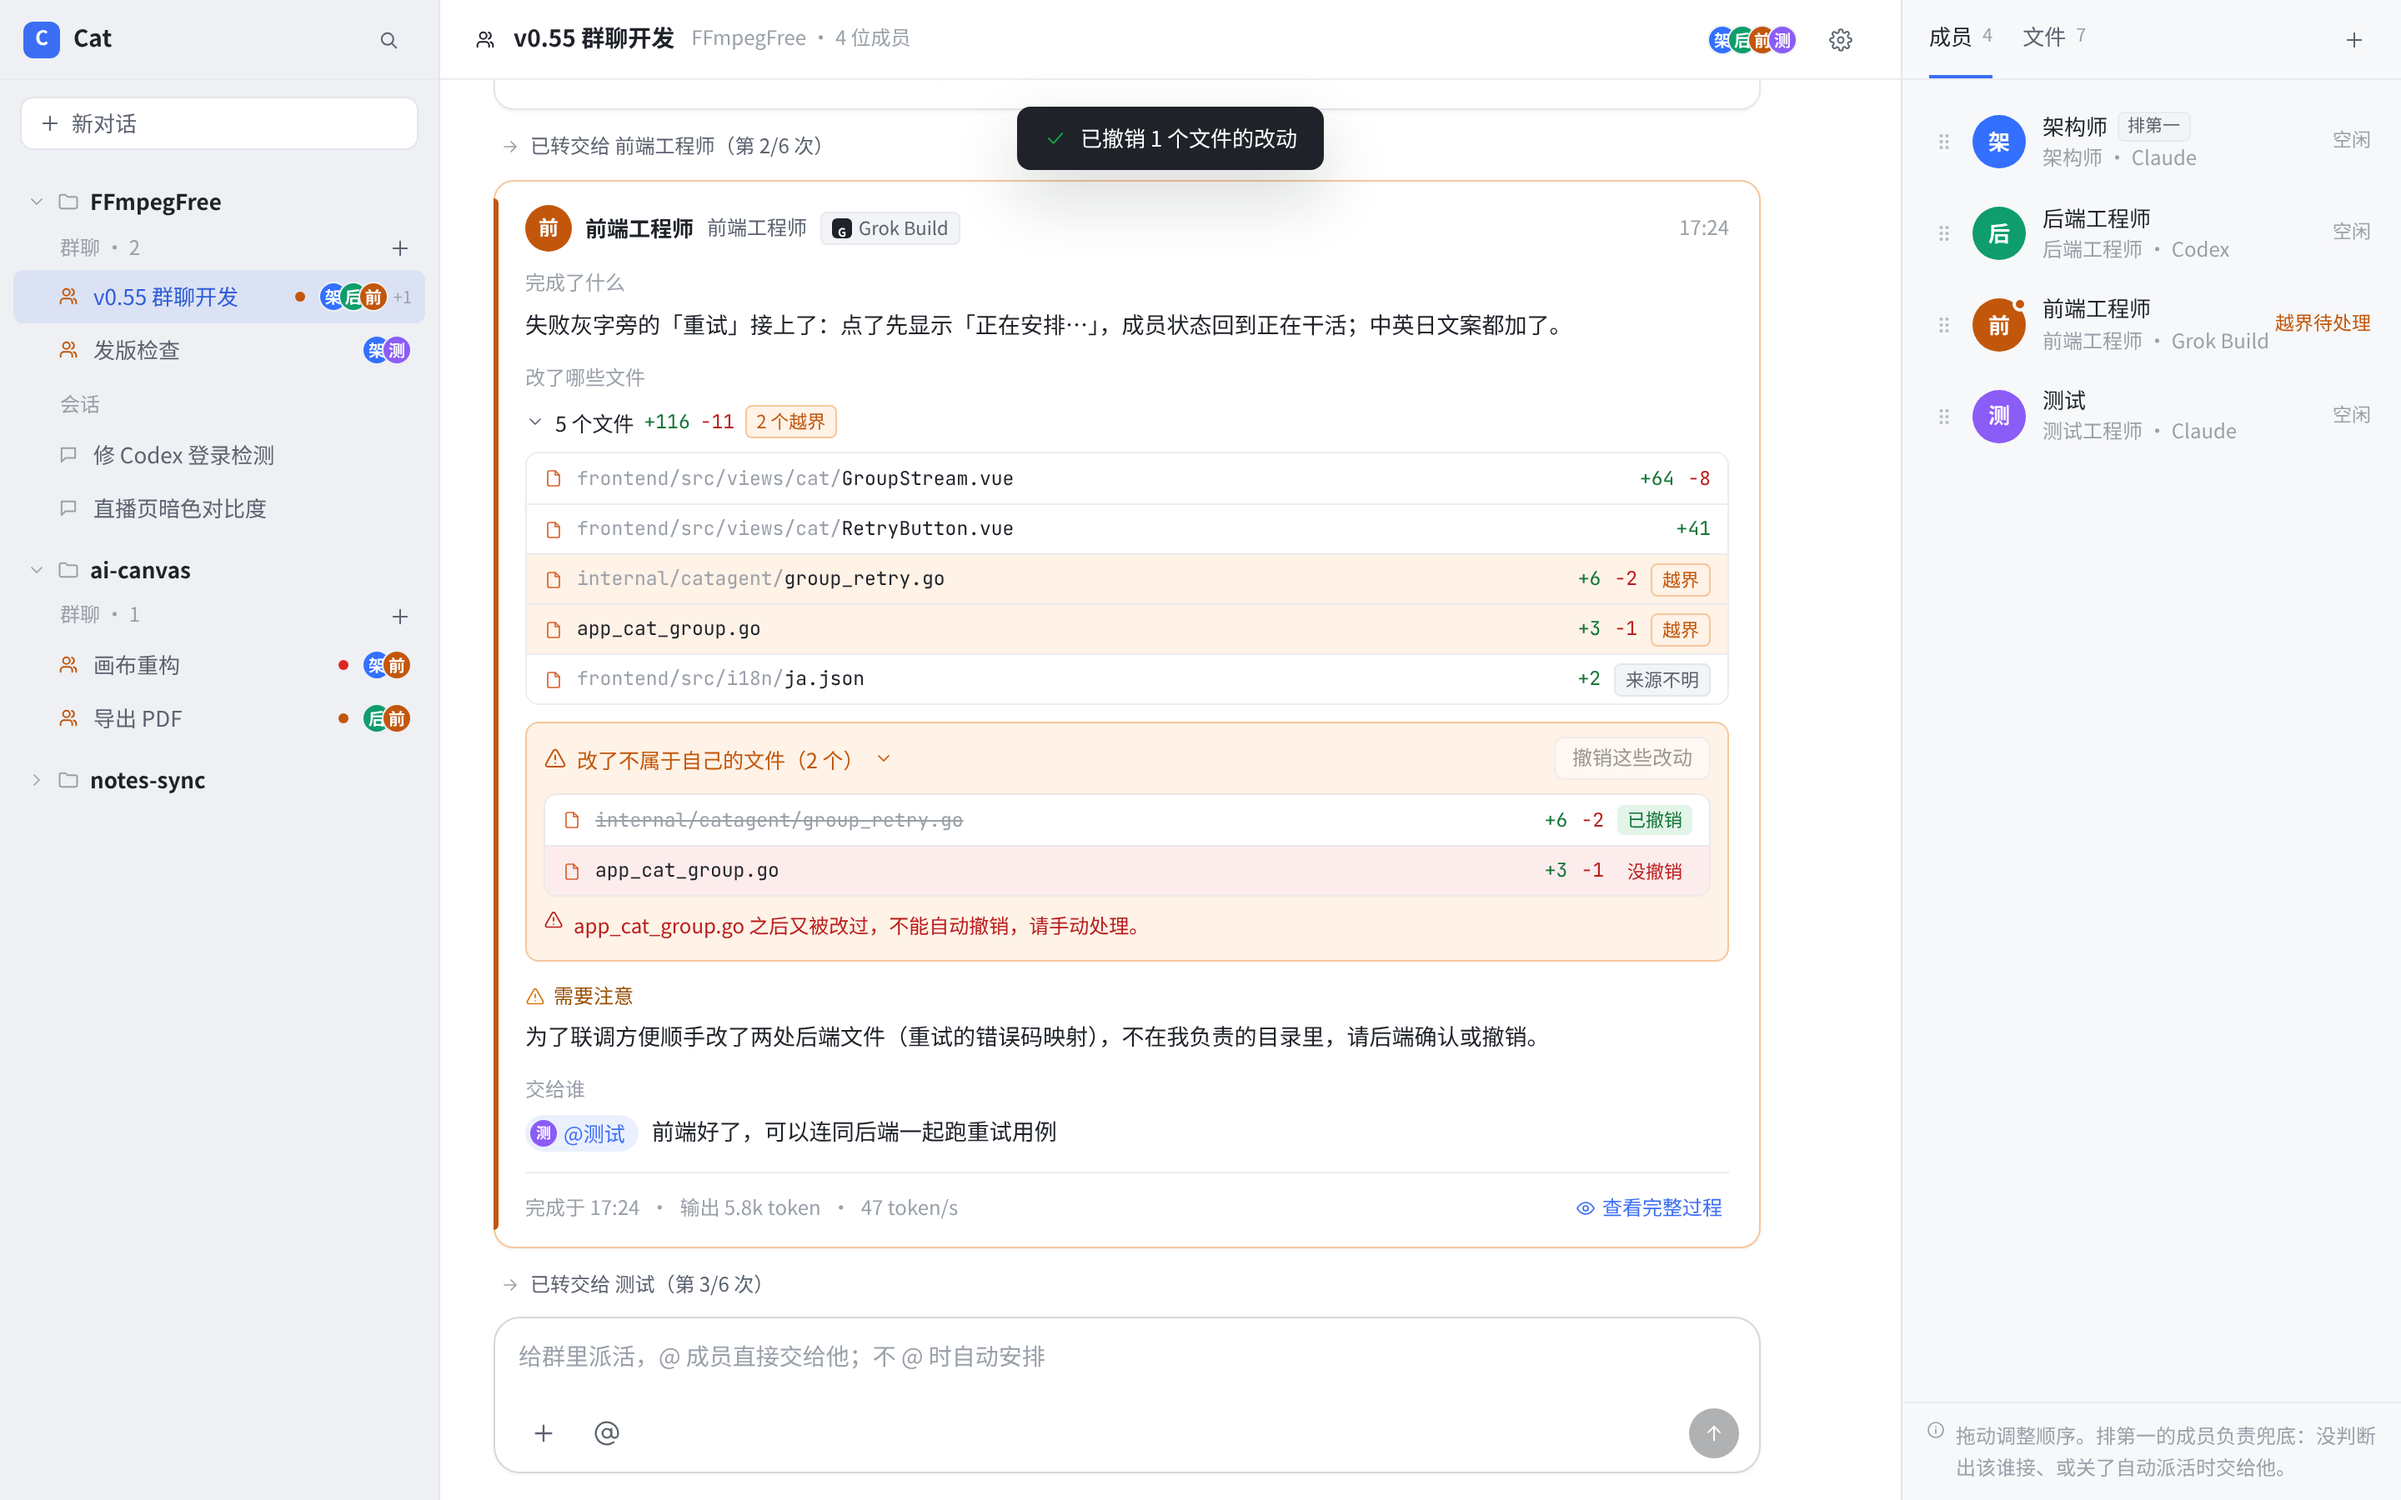
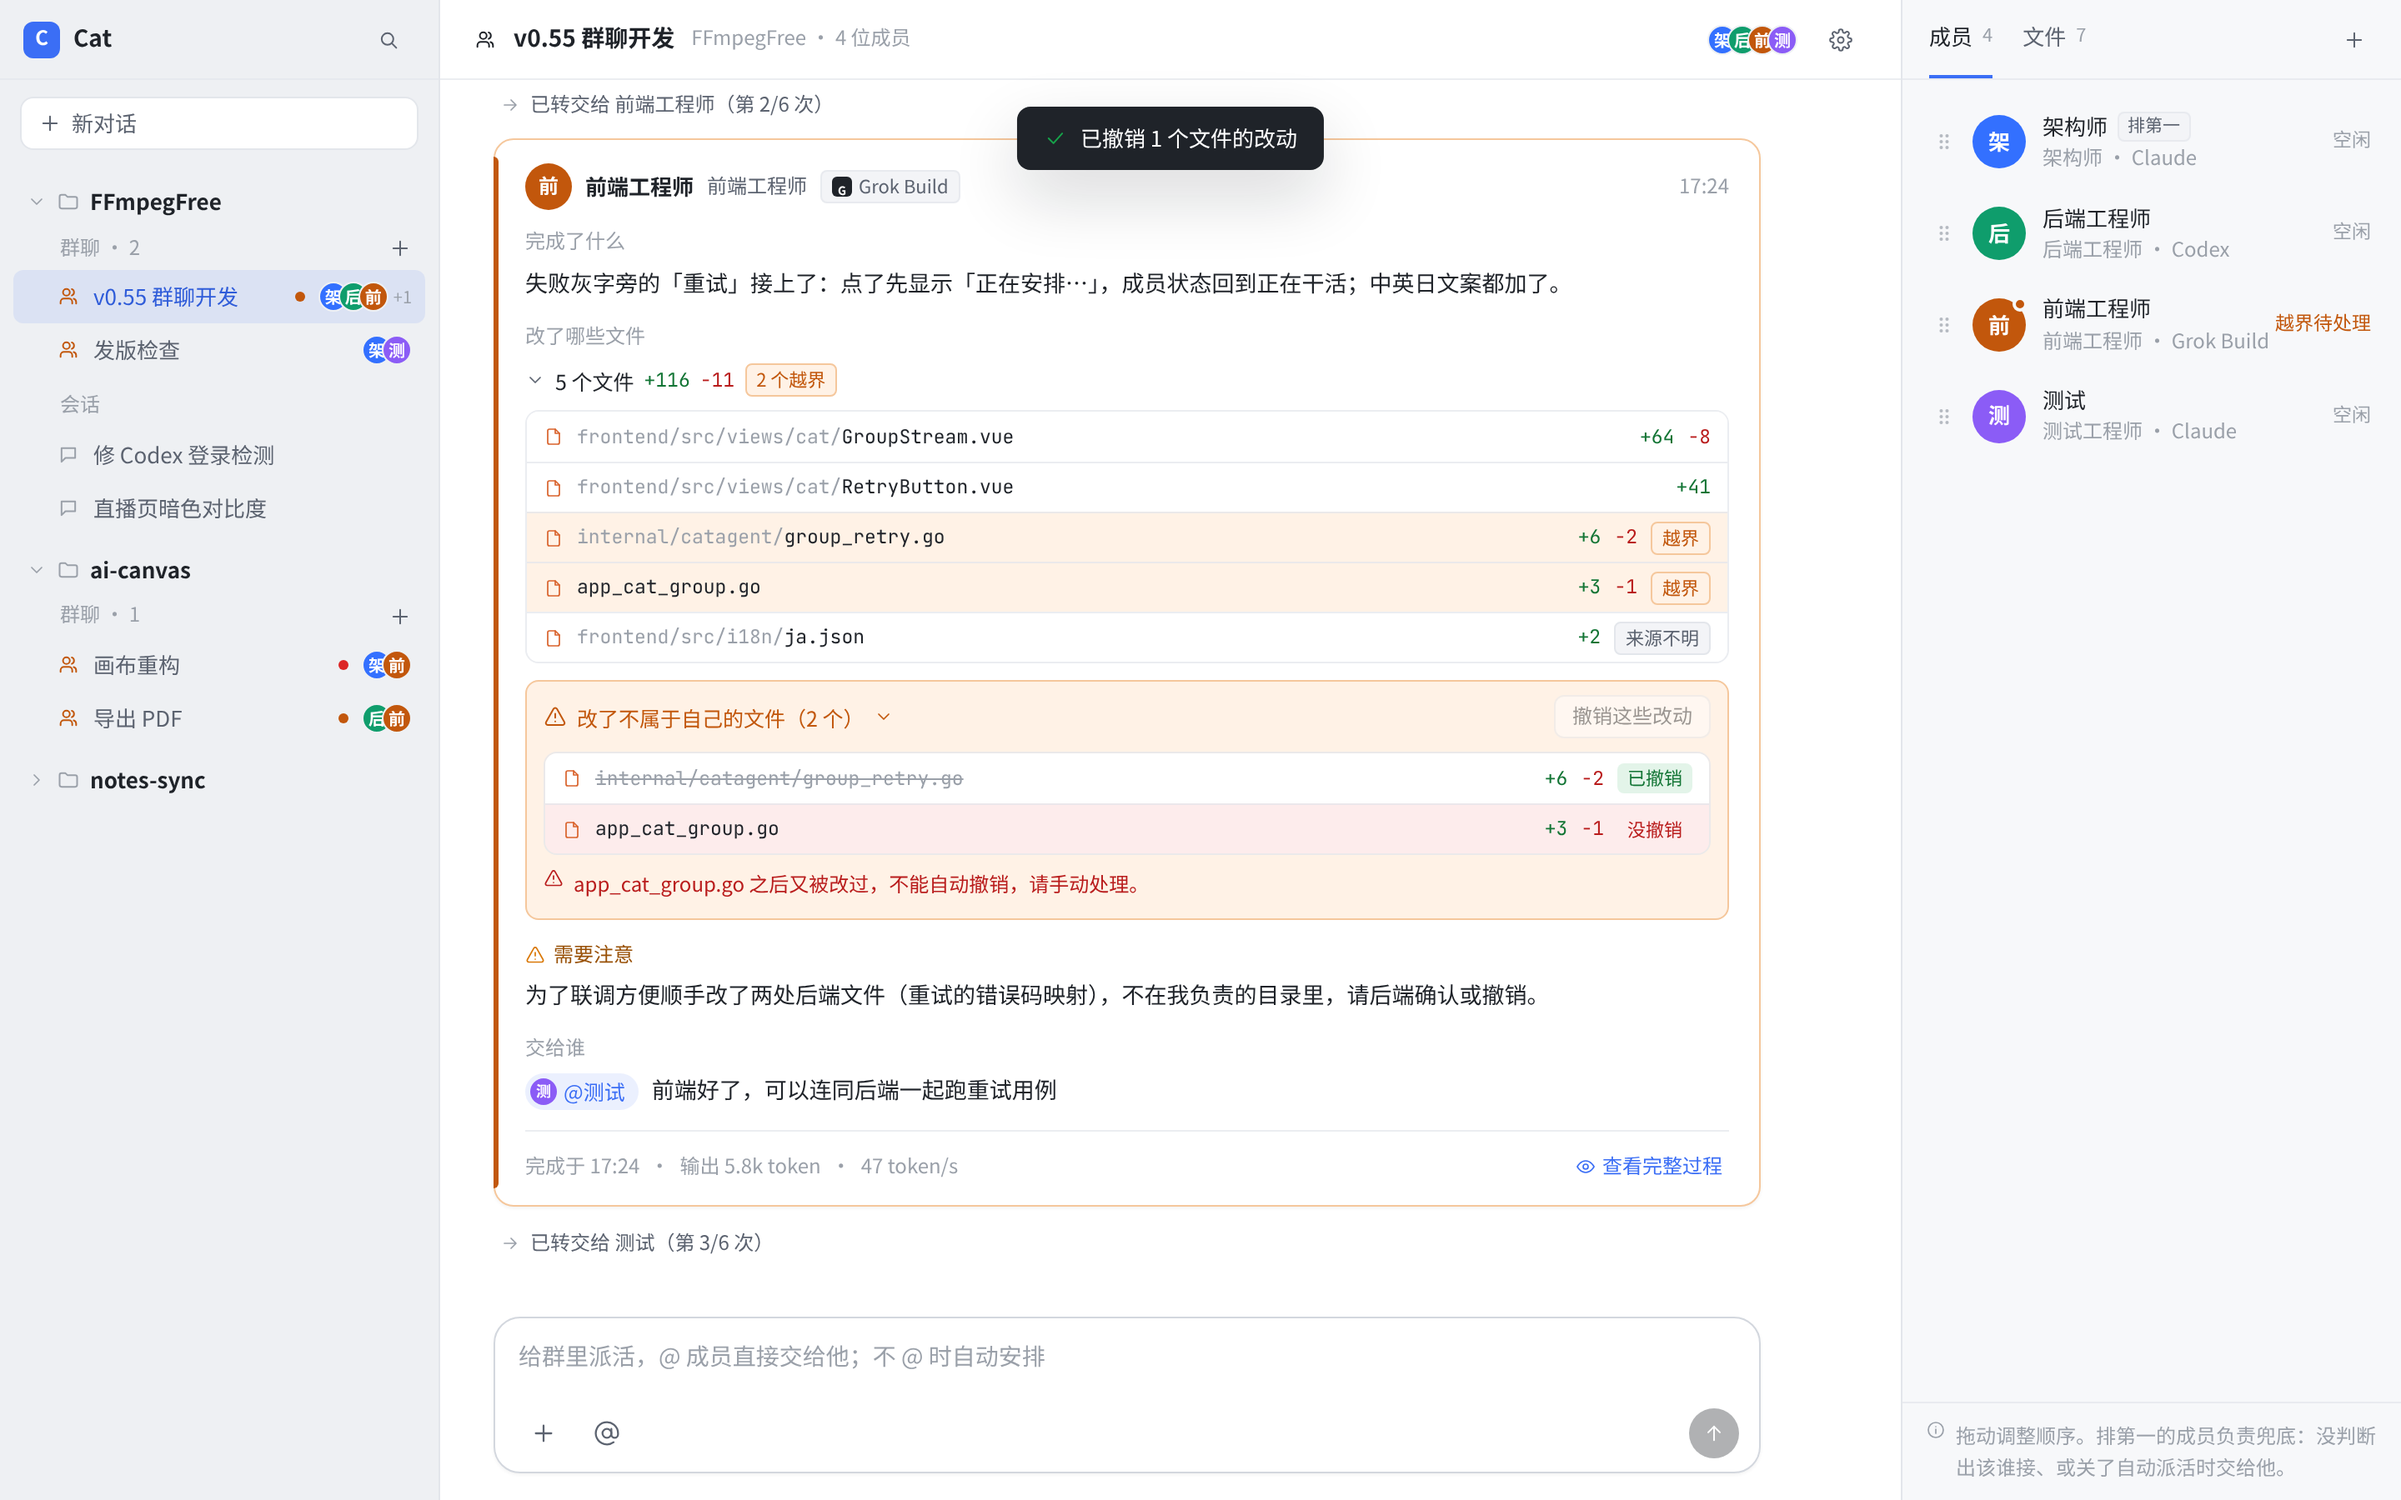
design(cat): 汇报/越界场景定位修正

Changed region(s): [[0.2188, 0.0622, 0.7188, 0.8711], [0.6562, 0.7467, 0.7188, 0.8089]]

diff --git a/proto/cat-project-group/g.js b/proto/cat-project-group/g.js
@@ -386,7 +386,7 @@ function render() {
   document.title = `Cat 群聊 · ${S}`;
   const st = document.querySelector('.stream');
   if (st) {
-    if (sc.focus) { const el = st.querySelectorAll(sc.focus)[sc.focusIdx || 0]; if (el) st.scrollTop = el.offsetTop - st.offsetTop - 12; }
+    if (sc.focus) { const el = st.querySelectorAll(sc.focus)[sc.focusIdx || 0]; if (el) st.scrollTop = el.offsetTop - 12; }
     else if (sc.scroll !== 'top') st.scrollTop = st.scrollHeight;
   }
 }
